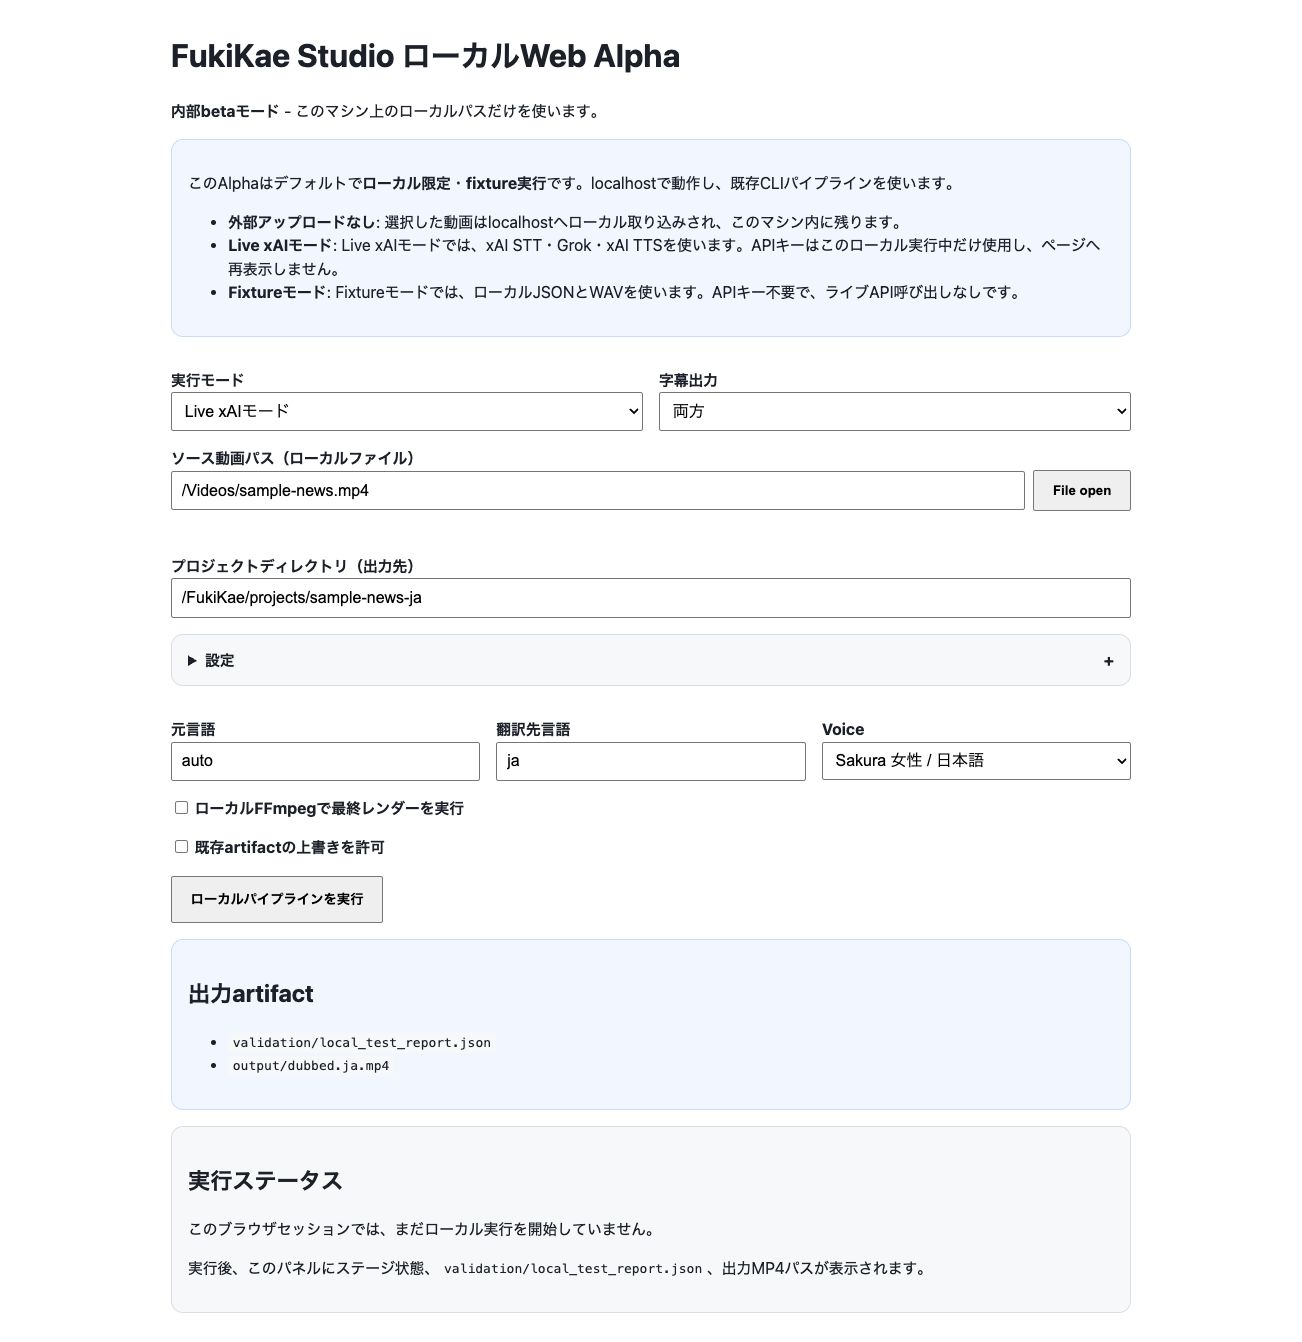
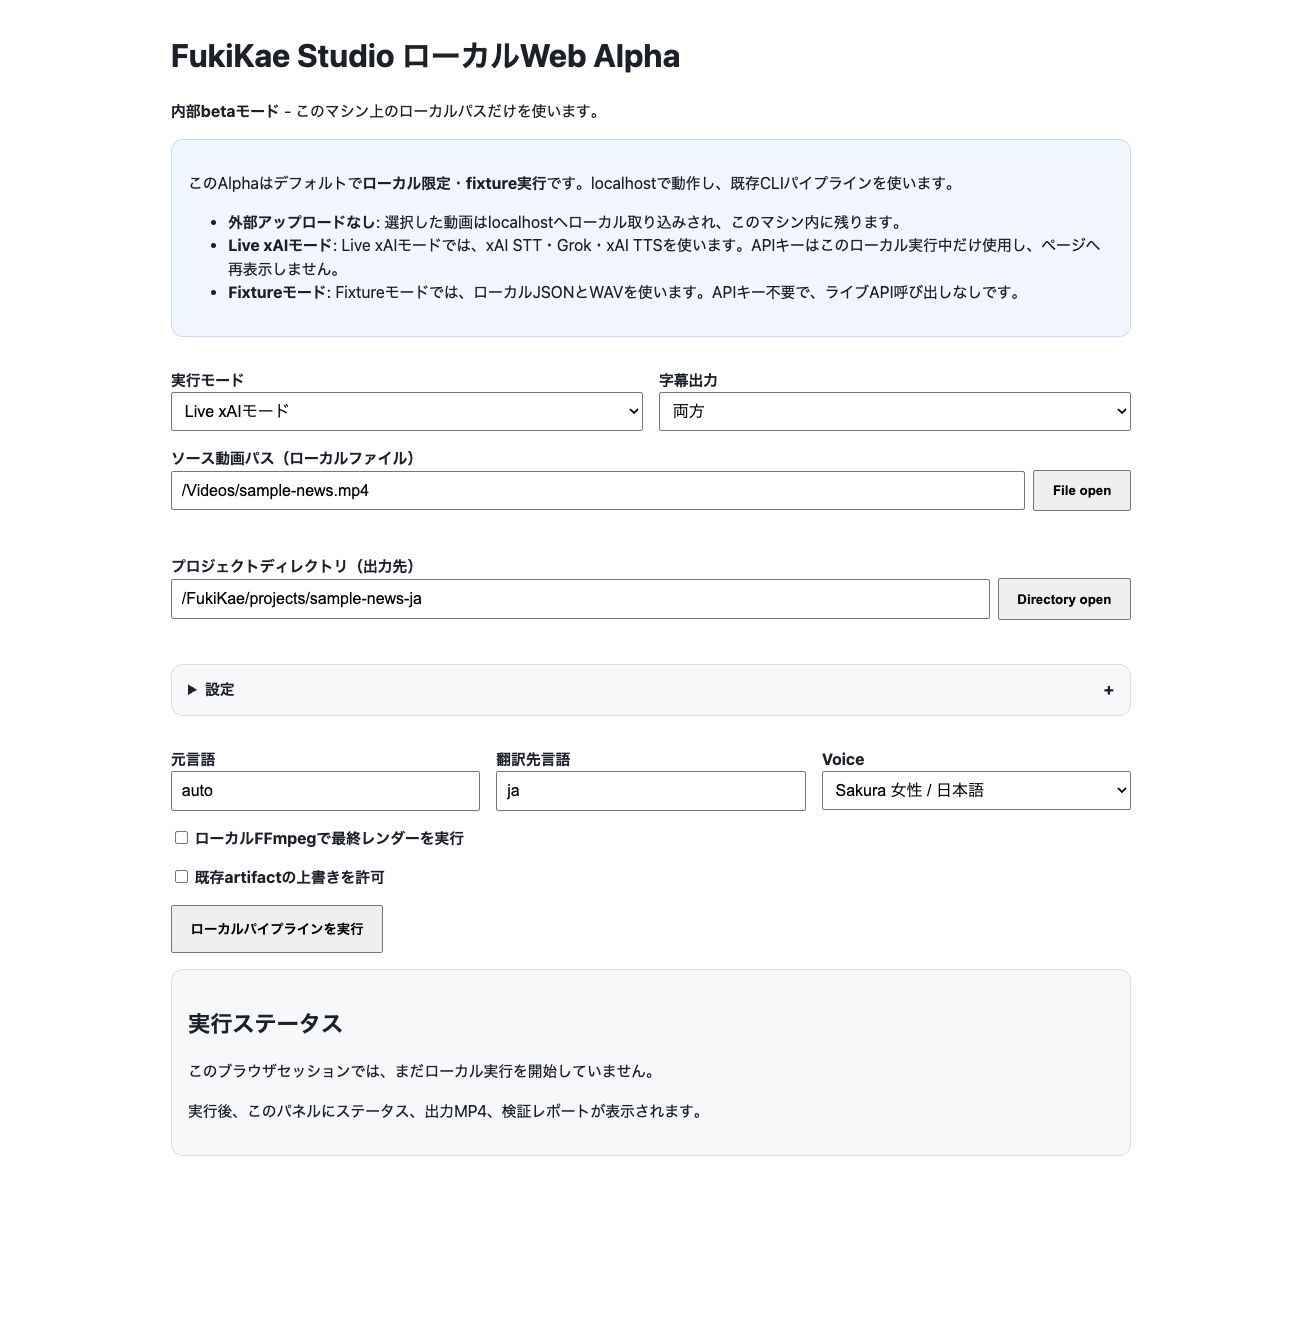
Add project directory picker to studio UI

diff --git a/src/fukikae_studio/web/studio.py b/src/fukikae_studio/web/studio.py
@@ -3,6 +3,8 @@ import json
 import re
 import secrets
 import shutil
+import subprocess
+import sys
 import webbrowser
 from html import escape
 from http.server import BaseHTTPRequestHandler, HTTPServer
@@ -20,6 +22,7 @@ from fukikae_studio.pipeline.subtitle_output import DEFAULT_SUBTITLE_OUTPUT, SUB
 PipelineRunner = Callable[..., Mapping[str, Any]]
 LivePipelineRunner = Callable[..., Mapping[str, Any]]
 ClientFactory = Callable[[XAIConfig], Any]
+DirectoryPicker = Callable[[Optional[str]], Optional[Path]]
 
 DEFAULT_HOST = "127.0.0.1"
 DEFAULT_PORT = 8765
@@ -80,6 +83,7 @@ def render_studio_home(
     error_html = f'<section class="error"><h2>Error</h2><pre>{escape(error)}</pre></section>' if error else ""
     action = f"/run?key={quote(access_key)}"
     source_video_upload_url = json.dumps(f"/upload-source-video?key={quote(access_key)}")
+    project_directory_choose_url = json.dumps(f"/choose-project-directory?key={quote(access_key)}")
     return f"""<!doctype html>
 <html lang="en">
 <head>
@@ -120,6 +124,12 @@ def render_studio_home(
     }}
     function setVideoPickerStatus(message) {{
       const status = document.getElementById("source-video-picker-status");
+      if (status) {{
+        status.textContent = message;
+      }}
+    }}
+    function setProjectDirectoryPickerStatus(message) {{
+      const status = document.getElementById("project-directory-picker-status");
       if (status) {{
         status.textContent = message;
       }}
@@ -169,6 +179,39 @@ def render_studio_home(
         }}
       }}
     }}
+    async function chooseProjectDirectory() {{
+      const input = document.querySelector('input[name="project"]');
+      const button = document.querySelector('[data-directory-open-target="project"]');
+      if (!input || !button) {{
+        return;
+      }}
+      const originalLabel = button.textContent;
+      button.disabled = true;
+      button.textContent = "選択中...";
+      setProjectDirectoryPickerStatus("");
+      try {{
+        const response = await fetch({project_directory_choose_url}, {{
+          method: "POST",
+          headers: {{ "Accept": "application/json", "Content-Type": "application/json" }},
+          body: JSON.stringify({{ current_path: input.value }})
+        }});
+        const payload = await response.json();
+        if (!response.ok) {{
+          throw new Error(payload.error || "出力先フォルダの選択に失敗しました。");
+        }}
+        if (payload.path) {{
+          input.value = payload.path;
+          setProjectDirectoryPickerStatus("出力先を選択しました。");
+        }} else {{
+          setProjectDirectoryPickerStatus("選択をキャンセルしました。");
+        }}
+      }} catch (error) {{
+        setProjectDirectoryPickerStatus(error.message || "出力先フォルダの選択に失敗しました。");
+      }} finally {{
+        button.disabled = false;
+        button.textContent = originalLabel;
+      }}
+    }}
     window.addEventListener("DOMContentLoaded", () => {{
       const selector = document.querySelector('select[name="run_mode"]');
       if (selector) {{
@@ -215,8 +258,12 @@ def render_studio_home(
     <input id="source-video-file" class="visually-hidden" type="file" accept="video/*,.mp4,.mov,.m4v,.mkv,.webm" onchange="uploadSourceVideo(this)">
     <p id="source-video-picker-status" class="field-status" role="status" aria-live="polite"></p>
 
-    <label>プロジェクトディレクトリ（出力先）</label>
-    <input type="text" name="project" value="{_default(defaults, 'project')}">
+    <label for="project-directory-path">プロジェクトディレクトリ（出力先）</label>
+    <div class="path-picker">
+      <input id="project-directory-path" type="text" name="project" value="{_default(defaults, 'project')}">
+      <button type="button" data-directory-open-target="project" onclick="chooseProjectDirectory()">Directory open</button>
+    </div>
+    <p id="project-directory-picker-status" class="field-status" role="status" aria-live="polite"></p>
 
     <section class="notice" data-mode-section="fixture">
       <h2>Fixture入力</h2>
@@ -337,6 +384,24 @@ def save_uploaded_source_video(file_obj: IO[bytes], original_filename: str, uplo
     return destination
 
 
+def choose_project_directory(current_path: Optional[str] = None) -> Optional[Path]:
+    if sys.platform != "darwin":
+        raise RuntimeError("Directory openは現在macOSのローカル実行でのみ利用できます。")
+    command = [
+        "osascript",
+        "-e",
+        'POSIX path of (choose folder with prompt "出力先フォルダを選択してください")',
+    ]
+    completed = subprocess.run(command, capture_output=True, text=True, check=False)
+    if completed.returncode == 0:
+        selected_path = completed.stdout.strip()
+        return Path(selected_path) if selected_path else None
+    stderr = completed.stderr.strip()
+    if "User canceled" in stderr or "(-128)" in stderr:
+        return None
+    raise RuntimeError(stderr or "出力先フォルダの選択に失敗しました。")
+
+
 def _safe_upload_filename(original_filename: str) -> str:
     source_name = Path(original_filename or "source_video.mp4").name
     source_path = Path(source_name)
@@ -362,6 +427,7 @@ def make_studio_handler(
     access_key: str,
     pipeline_runner: PipelineRunner = run_fixture_pipeline,
     upload_dir: Optional[Path] = None,
+    directory_picker: DirectoryPicker = choose_project_directory,
 ):
     source_upload_dir = Path(upload_dir) if upload_dir is not None else Path.cwd() / DEFAULT_UPLOAD_DIR
 
@@ -385,6 +451,16 @@ def make_studio_handler(
                 try:
                     saved_path = self._save_uploaded_source_video(source_upload_dir)
                     self._send_json({"path": str(saved_path), "filename": saved_path.name})
+                except Exception as exc:
+                    self._send_json({"error": str(exc)}, status=400)
+                return
+            if parsed.path == "/choose-project-directory":
+                try:
+                    selected_path = directory_picker(self._project_directory_current_path())
+                    if selected_path is None:
+                        self._send_json({"cancelled": True})
+                    else:
+                        self._send_json({"path": str(selected_path)})
                 except Exception as exc:
                     self._send_json({"error": str(exc)}, status=400)
                 return
@@ -432,6 +508,18 @@ def make_studio_handler(
             if field is None or not getattr(field, "filename", ""):
                 raise ValueError("動画ファイルが選択されていません。")
             return save_uploaded_source_video(field.file, str(field.filename), upload_dir)
+
+        def _project_directory_current_path(self) -> Optional[str]:
+            length = int(self.headers.get("Content-Length", "0"))
+            if length <= 0:
+                return None
+            payload = json.loads(self.rfile.read(length).decode("utf-8") or "{}")
+            if not isinstance(payload, Mapping):
+                return None
+            current_path = payload.get("current_path")
+            if current_path is None:
+                return None
+            return str(current_path)
 
         def _send_json(self, payload: Mapping[str, object], status: int = 200) -> None:
             self._send_text(json.dumps(payload, indent=2) + "\n", status=status, content_type="application/json")

diff --git a/tests/test_studio_server.py b/tests/test_studio_server.py
@@ -49,6 +49,11 @@ def test_render_studio_home_exposes_local_fixture_backed_controls():
     assert "/upload-source-video?key=abc123" in html
     assert "/choose-source-video" not in html
     assert 'name="project"' in html
+    assert 'id="project-directory-path"' in html
+    assert 'data-directory-open-target="project"' in html
+    assert "Directory open" in html
+    assert "chooseProjectDirectory" in html
+    assert "/choose-project-directory?key=abc123" in html
     assert '<select name="voice">' in html
     assert '<option value="d0cb9ff07d95" selected>Sakura 女性 / 日本語</option>' in html
     assert '<option value="b1a7441b97a1">Ren 男性 / 日本語</option>' in html
@@ -126,6 +131,36 @@ def test_upload_source_video_endpoint_saves_browser_selected_file(tmp_path):
         saved_video = upload_dir / "sample_video.mp4"
         assert payload == {"path": str(saved_video), "filename": "sample_video.mp4"}
         assert saved_video.read_bytes() == b"local video bytes"
+    finally:
+        server.shutdown()
+        thread.join(timeout=3)
+        server.server_close()
+
+
+def test_choose_project_directory_endpoint_returns_selected_path(tmp_path):
+    selected_dir = tmp_path / "selected"
+    current_dir = tmp_path / "current"
+    calls = []
+
+    def fake_directory_picker(current_path):
+        calls.append(current_path)
+        return selected_dir
+
+    handler = make_studio_handler({}, access_key="abc123", directory_picker=fake_directory_picker)
+    server = HTTPServer(("127.0.0.1", 0), handler)
+    thread = threading.Thread(target=server.serve_forever, daemon=True)
+    thread.start()
+    try:
+        request = urllib.request.Request(
+            f"http://127.0.0.1:{server.server_address[1]}/choose-project-directory?key=abc123",
+            data=json.dumps({"current_path": str(current_dir)}).encode("utf-8"),
+            method="POST",
+            headers={"Content-Type": "application/json"},
+        )
+        with urllib.request.urlopen(request) as response:
+            payload = json.loads(response.read().decode("utf-8"))
+        assert payload == {"path": str(selected_dir)}
+        assert calls == [str(current_dir)]
     finally:
         server.shutdown()
         thread.join(timeout=3)

diff --git a/README.md b/README.md
@@ -126,7 +126,7 @@ http://127.0.0.1:8765/?key=...
 
 1. 実行モードで`Live xAIモード`を選ぶ。
 2. `File open`でソース動画を選ぶ。
-3. プロジェクトディレクトリを指定する。
+3. `Directory open`でプロジェクトディレクトリ（出力先）を選ぶ。
 4. `設定`を開いてxAI API Keyを入力する。このKeyは実行中だけ使い、画面へ再表示しません。
 5. Voiceを選ぶ。
 6. 字幕出力を選ぶ。
@@ -134,6 +134,7 @@ http://127.0.0.1:8765/?key=...
 8. `ローカルパイプラインを実行`を押す。
 
 `File open`で選んだ動画は外部にアップロードされません。localhostの`work/studio-uploads/`へローカルコピーされ、そのコピー先パスがフォームへ入ります。
+`Directory open`はmacOSのフォルダ選択ダイアログを使い、選んだ出力先パスだけをローカルフォームへ入れます。
 
 ## 出力ファイル
 
